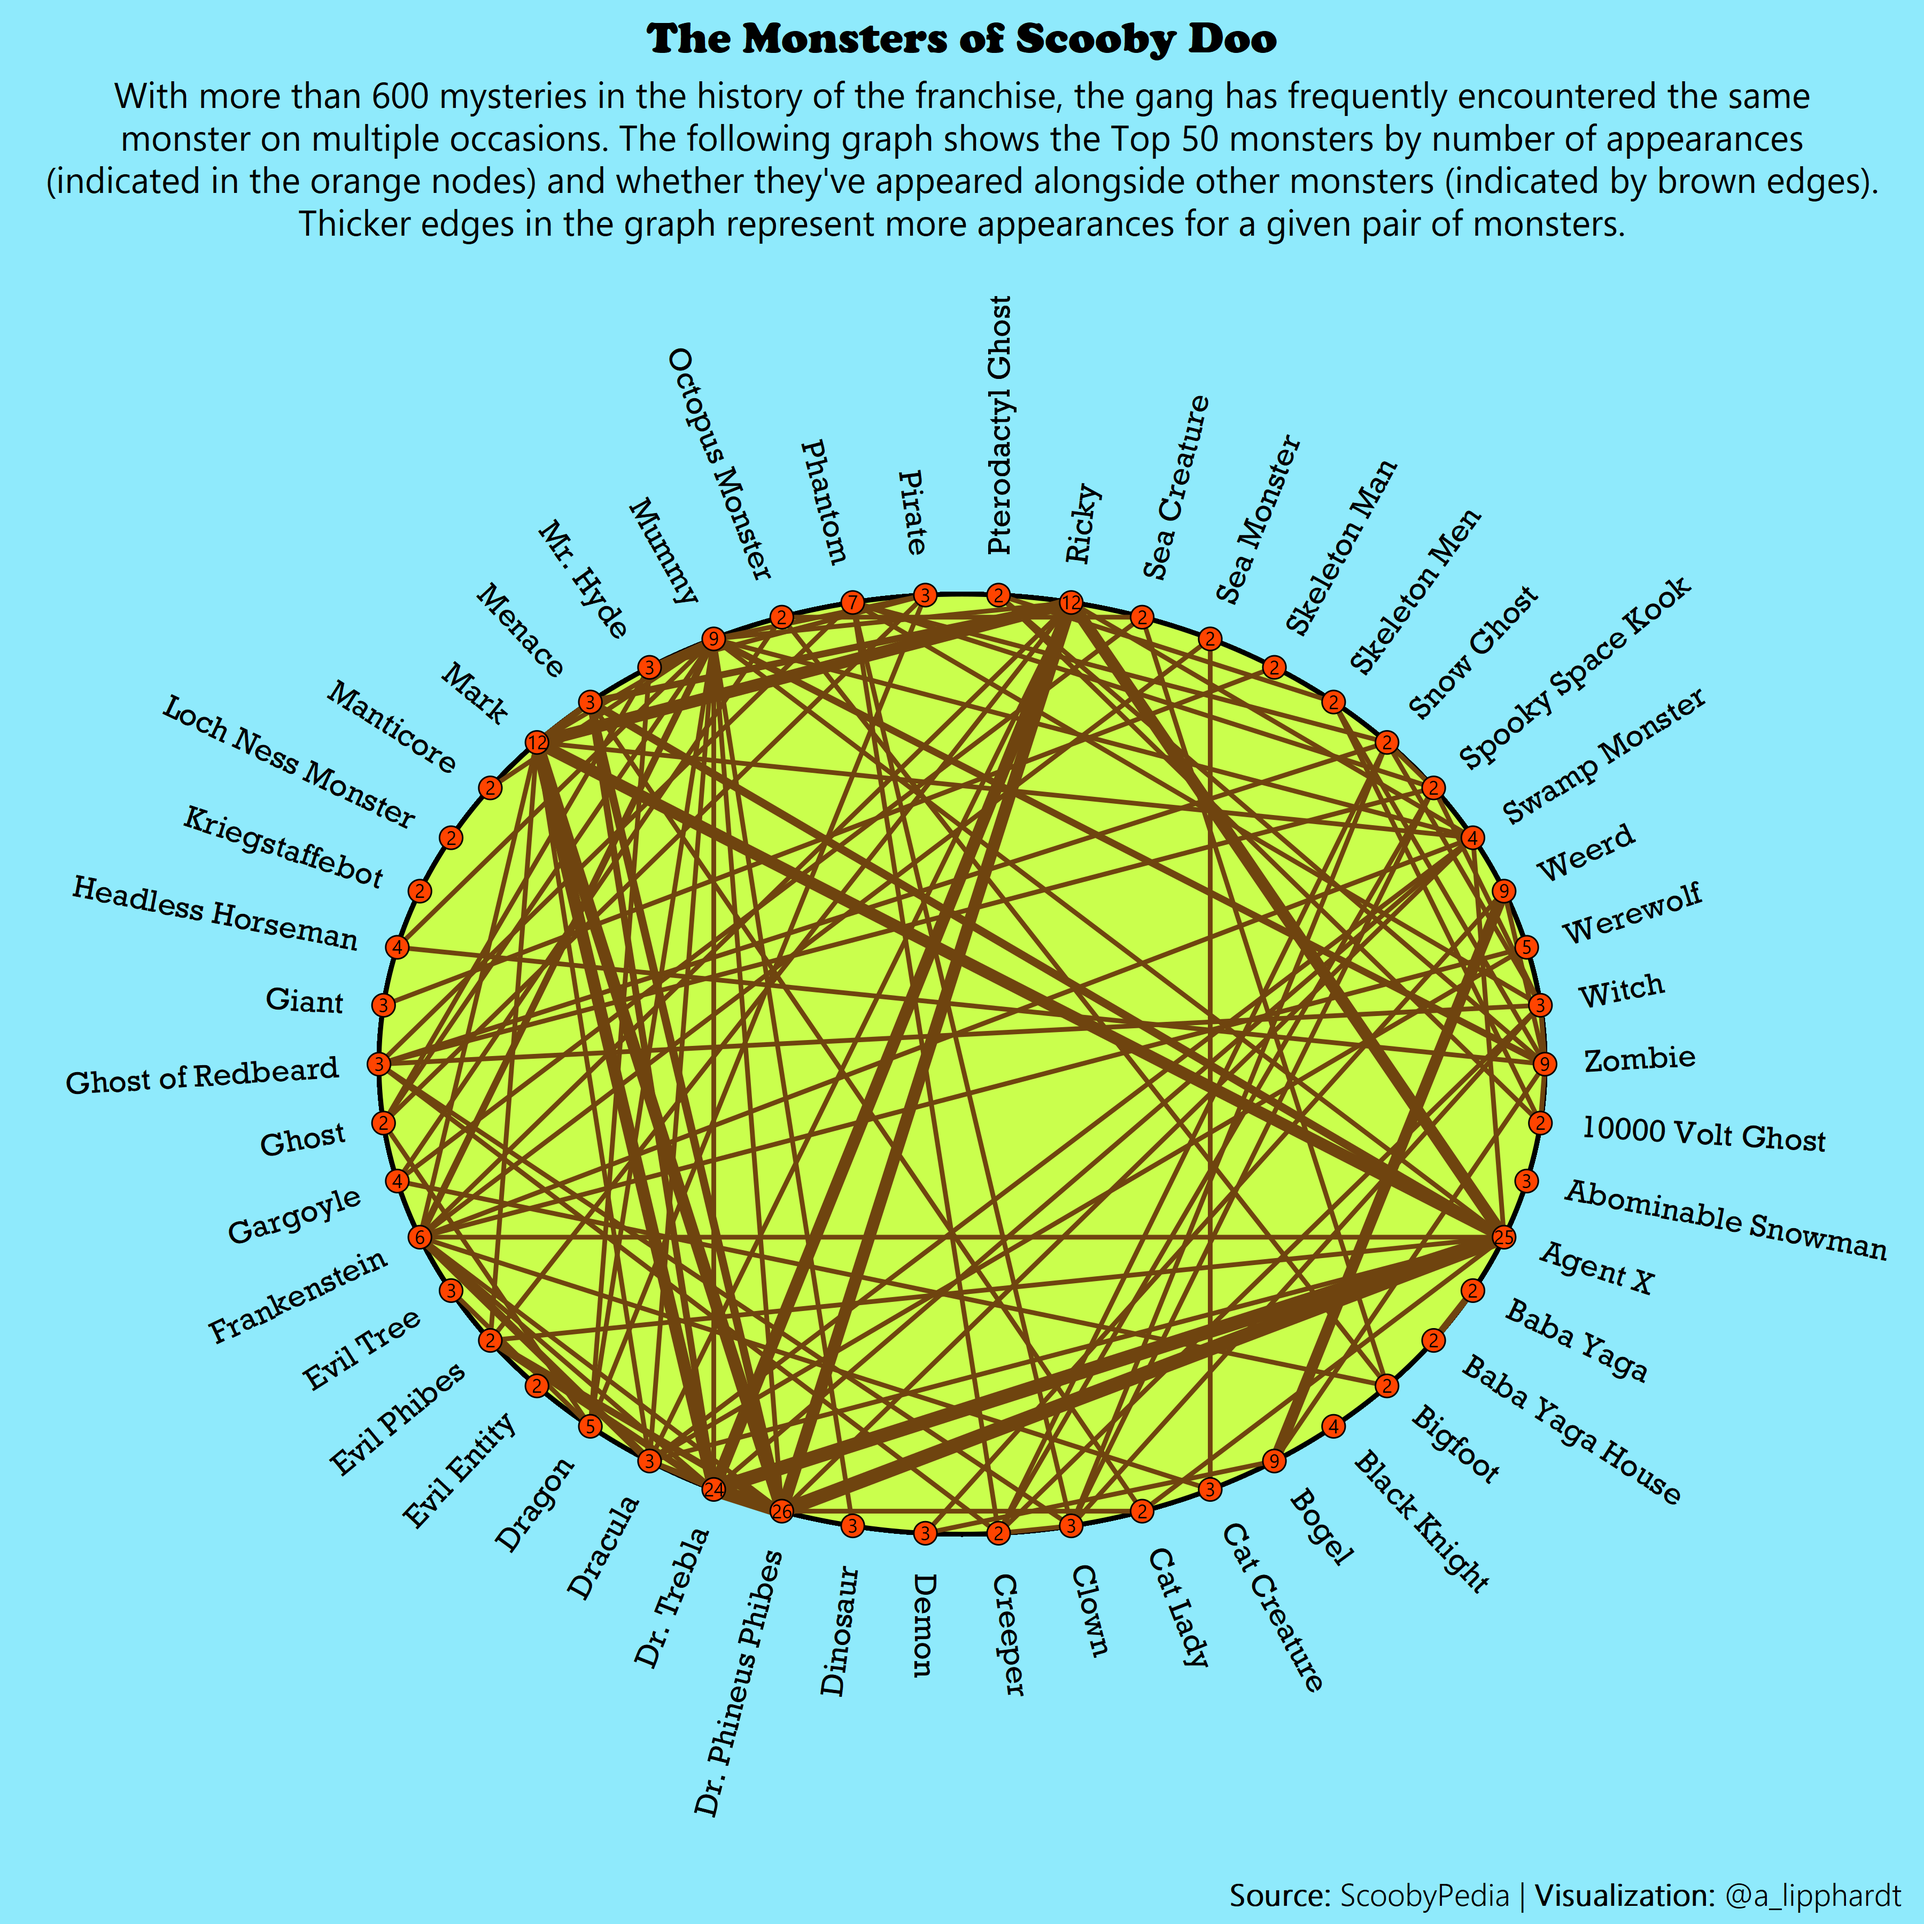
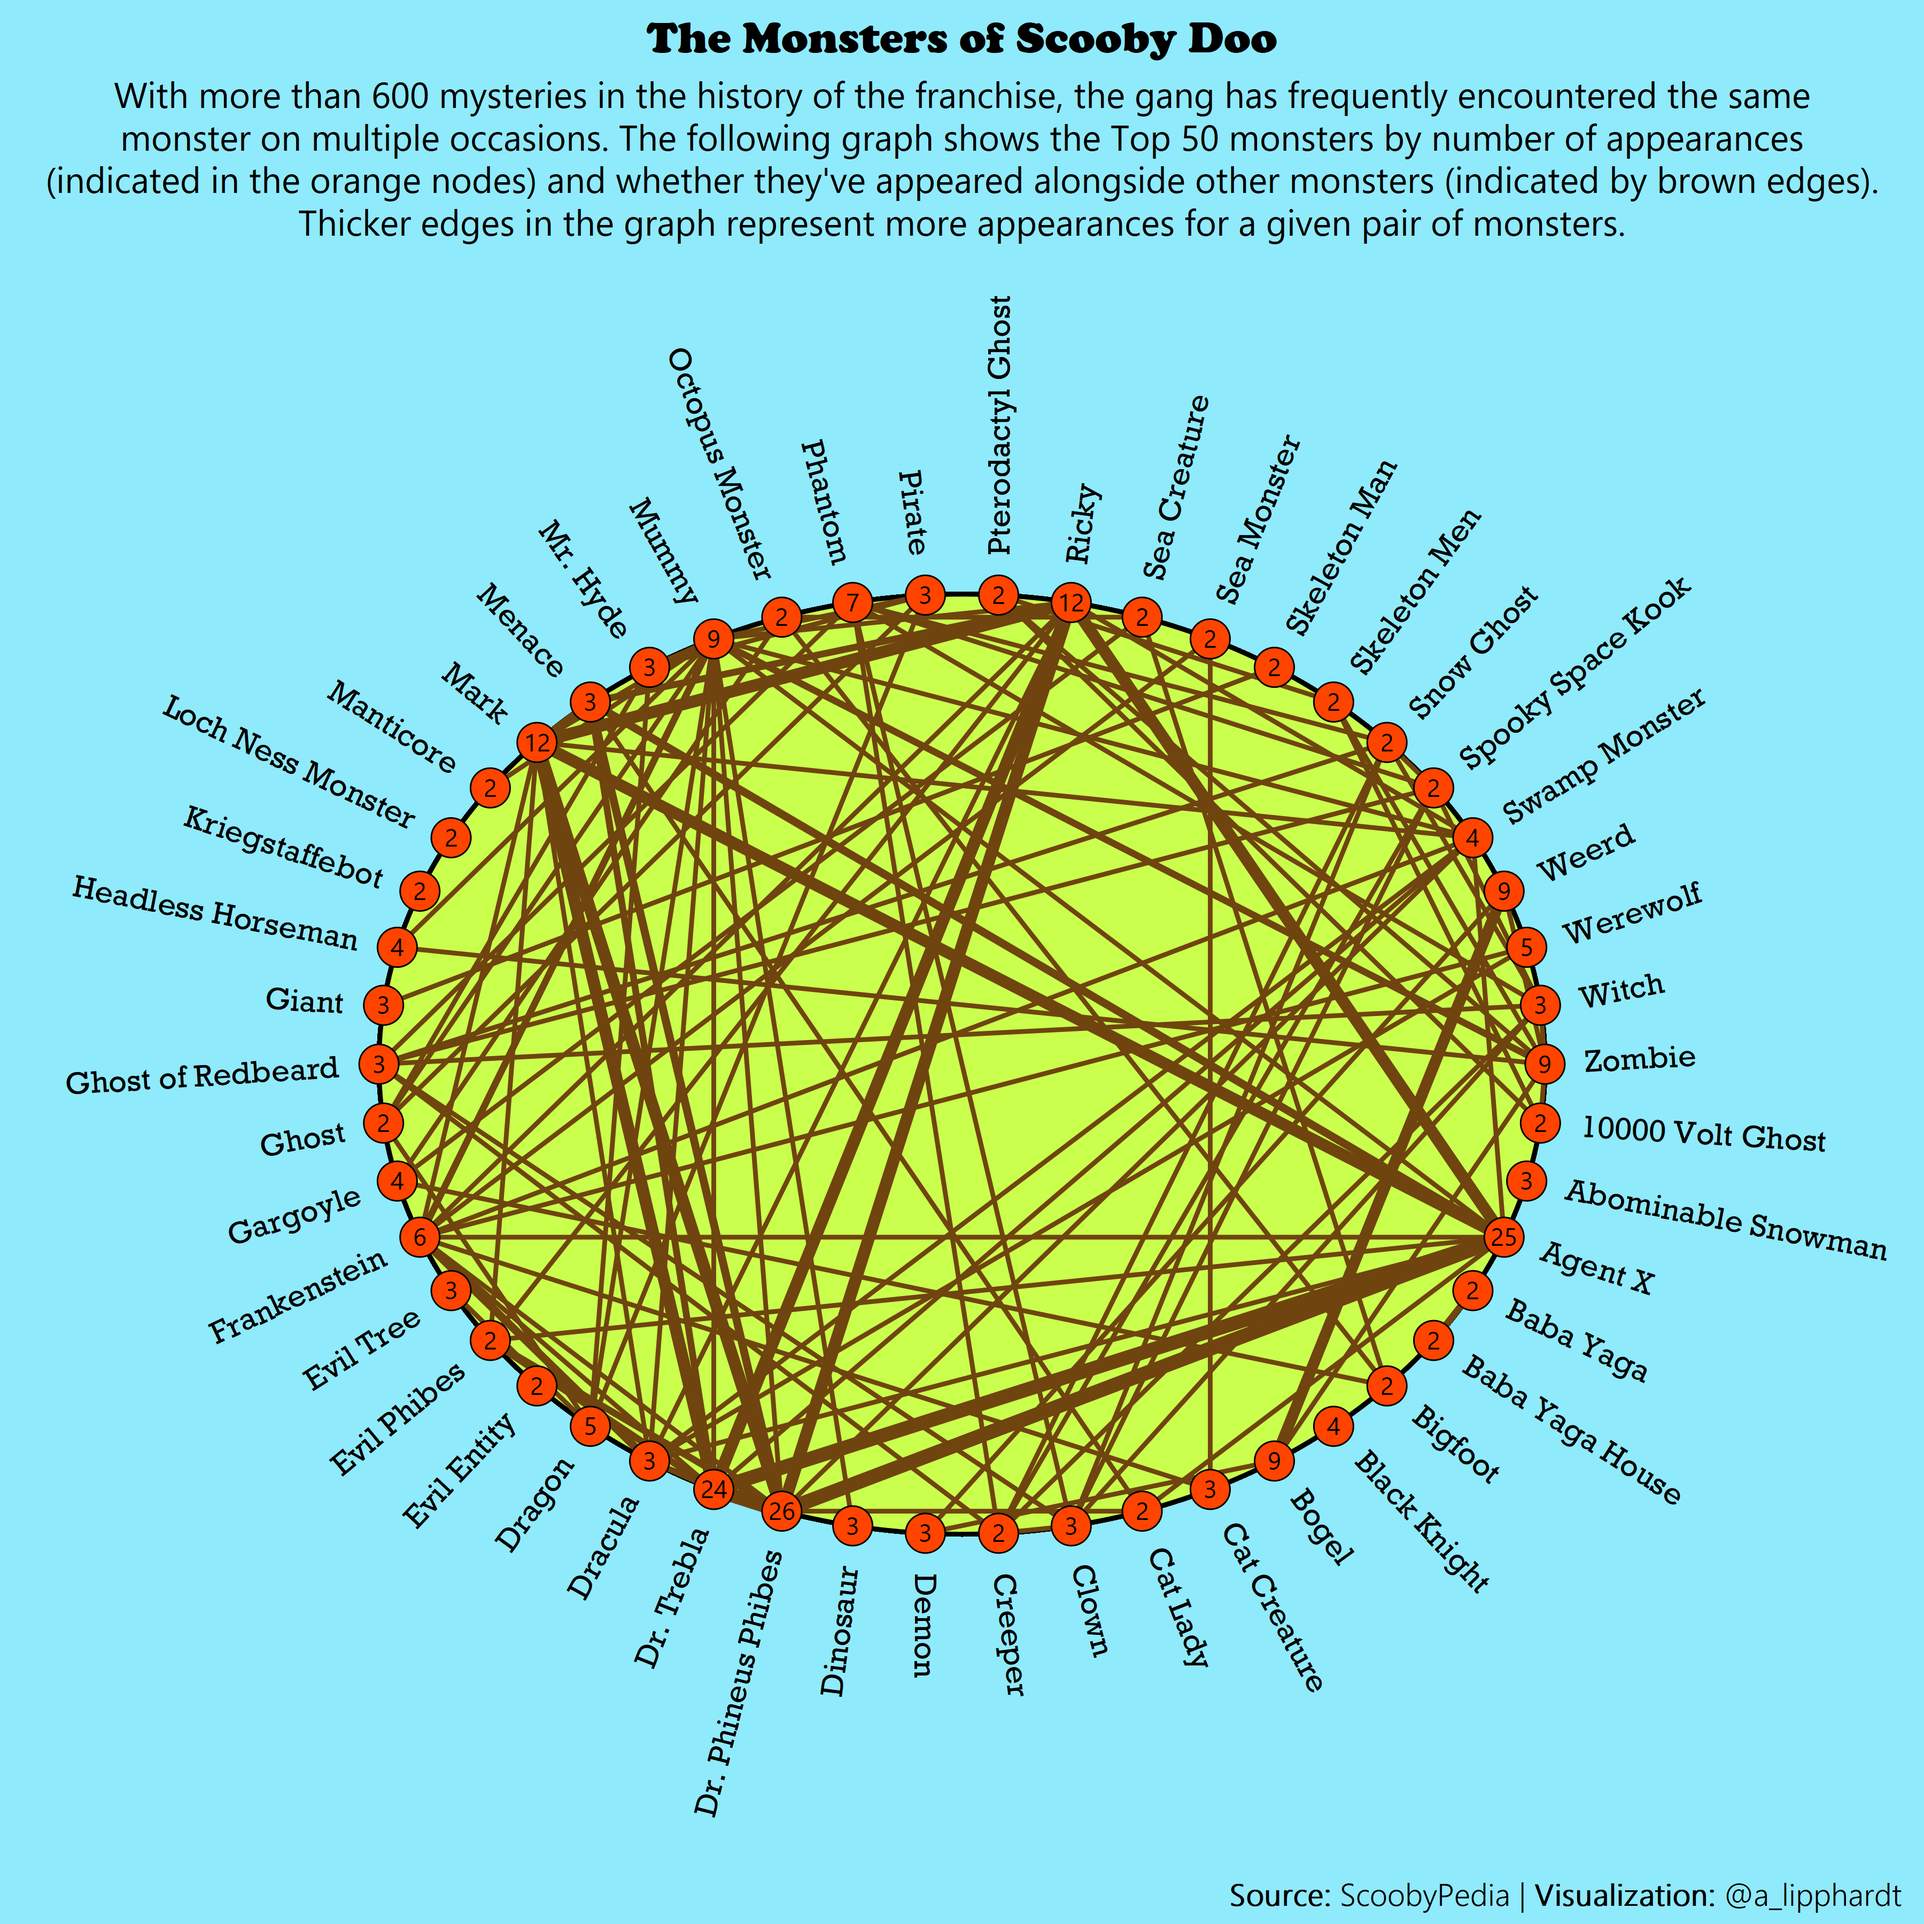
Increased node size

diff --git a/scooby-doo/README.md b/scooby-doo/README.md
@@ -566,13 +566,13 @@ chord_graph = ggraph(monster_graph, layout = "circle") +
                  show.legend = FALSE) +  
   
   # Orange circle/node for each monster
-  geom_node_point(aes(size = 5), fill = scooby_orange, colour = "black", pch = 21, 
+  geom_node_point(size = 8, fill = scooby_orange, colour = "black", pch = 21, 
                   show.legend = FALSE) +
   
 
   # Number of appearances for a given monster
   geom_node_text(aes(label=glue("{n}")), 
-                 size=3, 
+                 size=4, 
                  color="black", 
                  show.legend = FALSE,
                  family = "Segoe UI") +
